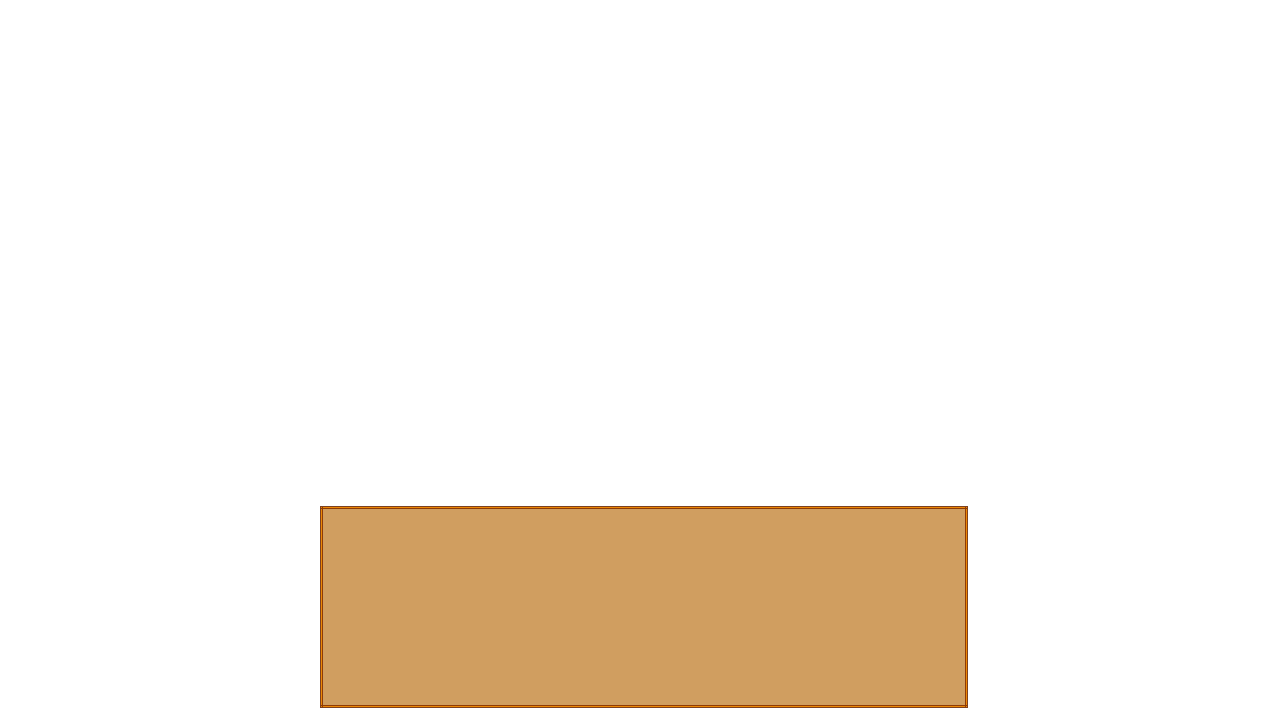
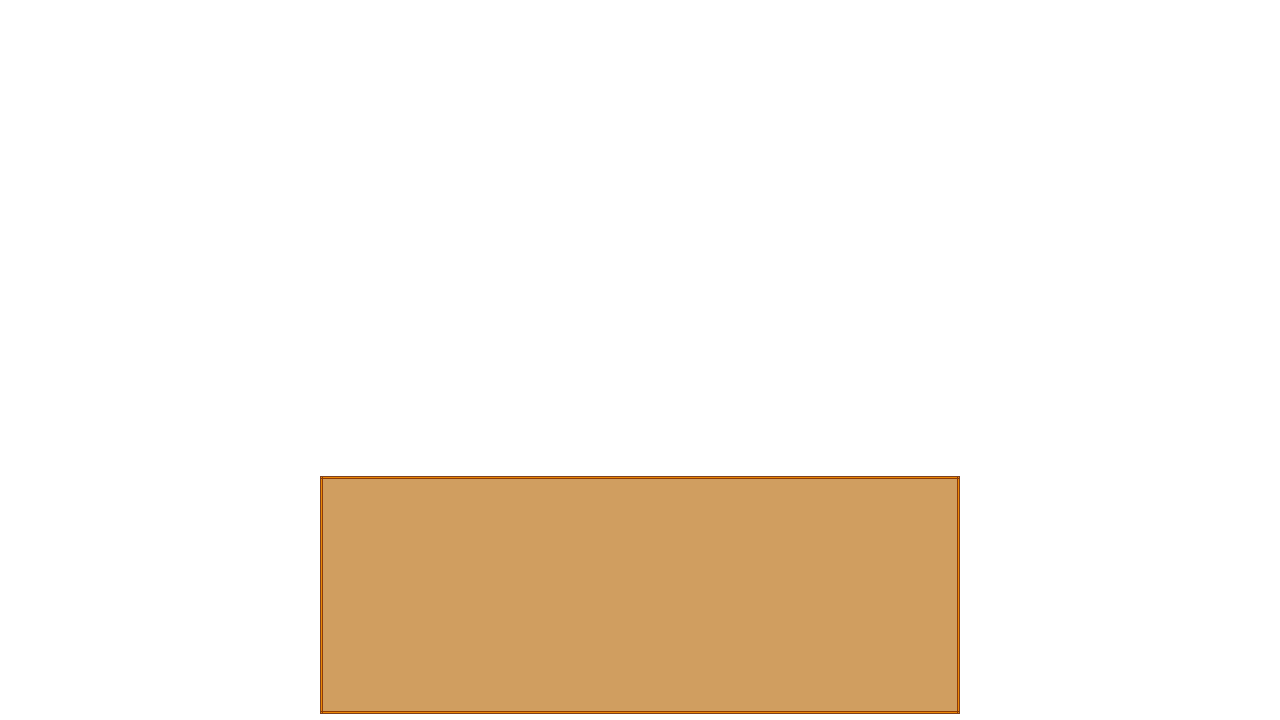
DialogueWindow adapted to new resolution

Changed region(s): [[0.25, 0.6417, 0.7812, 0.9778], [0.25, 0.9778, 0.75, 1.0]]

diff --git a/src/gui/DialogueWindow.java b/src/gui/DialogueWindow.java
@@ -26,7 +26,7 @@ public class DialogueWindow {
 	private ArrayList<Dialogue> startingDialogues;
 	private ArrayList<Dialogue> currentDialogues;
 	
-	private Font font = new Font(Font.MONOSPACED, Font.BOLD, 25);
+	private Font font = new Font(Font.MONOSPACED, Font.BOLD, 18);
 	private TrueTypeFont ttf = new TrueTypeFont(font, true);
 	
 	private int selectedOption;
@@ -39,7 +39,7 @@ public class DialogueWindow {
 	private String currentSentence;
 	private String currentSpeaker;
 	
-	private final int MAX_CHAR_AMOUNT_PER_LINE = 62;
+	private final int MAX_CHAR_AMOUNT_PER_LINE = 56;
 	
 	private String currentlyDisplayedText;
 	private final int TIME_FOR_NEXT_CHARACTER = 20;
@@ -210,11 +210,11 @@ public class DialogueWindow {
 					}
 					
 					if(i == currentDialogues.size() && currentDialogues == startingDialogues) {
-						ttf.drawString(495, 763 + i * 30, "End", fontColor);
+						ttf.drawString(333, 480 + i * 25, "End", fontColor);
 					} 
 					
 					if(i < currentDialogues.size())  {
-						ttf.drawString(495, 763 + i * 30, currentDialogues.get(i).getSentences().get(0).getText(), fontColor);
+						ttf.drawString(333, 480 + i * 25, currentDialogues.get(i).getSentences().get(0).getText(), fontColor);
 					}
 					
 				}	
@@ -226,7 +226,7 @@ public class DialogueWindow {
 				} else {
 					fontColor = Color.black;
 				}
-				ttf.drawString(Main.WIDTH/2 - ttf.getWidth(currentSpeaker)/2, 763, currentSpeaker, fontColor);
+				ttf.drawString(Main.WIDTH/2 - ttf.getWidth(currentSpeaker)/2, 480, currentSpeaker, fontColor);
 								
 				
 				
@@ -244,9 +244,9 @@ public class DialogueWindow {
 				String restText = currentlyDisplayedText;
 				while(true) {
 					
-					if(restText.length() >= 62) {
-						lines.add(restText.substring(0, restText.substring(0, 62).lastIndexOf(" ")));
-						restText = restText.substring(restText.substring(0, 62).lastIndexOf(" ") + 1, restText.length());
+					if(restText.length() >= MAX_CHAR_AMOUNT_PER_LINE) {
+						lines.add(restText.substring(0, restText.substring(0, MAX_CHAR_AMOUNT_PER_LINE).lastIndexOf(" ")));
+						restText = restText.substring(restText.substring(0, MAX_CHAR_AMOUNT_PER_LINE).lastIndexOf(" ") + 1, restText.length());
 					
 					} else {
 						lines.add(restText);
@@ -256,7 +256,7 @@ public class DialogueWindow {
 				}
 			
 				for(int i = 0; i < lines.size(); i++) {
-					ttf.drawString(495, 808 + i * 30, lines.get(i), fontColor);
+					ttf.drawString(333, 505 + i * 25, lines.get(i), fontColor);
 				}
 					
 			}

diff --git a/src/models/Player.java b/src/models/Player.java
@@ -341,9 +341,9 @@ public class Player extends Character {
 		super.setCollisionBox(new CollisionBox(super.getRelativeToMapX() + 6, super.getRelativeToMapY() + 10, super.getSpriteSize() / 2 - 12, super.getSpriteSize() / 2 - 12));
 		super.setHitBox(new CollisionBox(super.getRelativeToMapX(), super.getRelativeToMapY() - 10, super.getSpriteSize() / 2, super.getSpriteSize() / 2));
 
-		super.setHealthBar(new Bar(20, Main.HEIGHT - 40, 350, 25, 5, healthPoints, healthPoints, Color.red));
+		super.setHealthBar(new Bar(15, Main.HEIGHT - 40, 300, 25, 5, healthPoints, healthPoints, Color.red));
 
-		manaBar = new Bar(Main.WIDTH - 20 - 350, Main.HEIGHT - 40, 350, 25, 5, mana, mana, Color.blue);
+		manaBar = new Bar(Main.WIDTH - 15 - 300, Main.HEIGHT - 40, 300, 25, 5, mana, mana, Color.blue);
 		
 		prepareAttackBar = new Bar(getRelativeToMapX() + Game.getCurrentMap().getX() - 16, getRelativeToMapY() + Game.getCurrentMap().getY() - 32, 64, 5, 1, 0, 100, Color.cyan);
 		prepareShotBar = new Bar(getRelativeToMapX() + Game.getCurrentMap().getX() - 16, getRelativeToMapY() + Game.getCurrentMap().getY() - 32, 64, 5, 1, 0, 100, Color.cyan);
